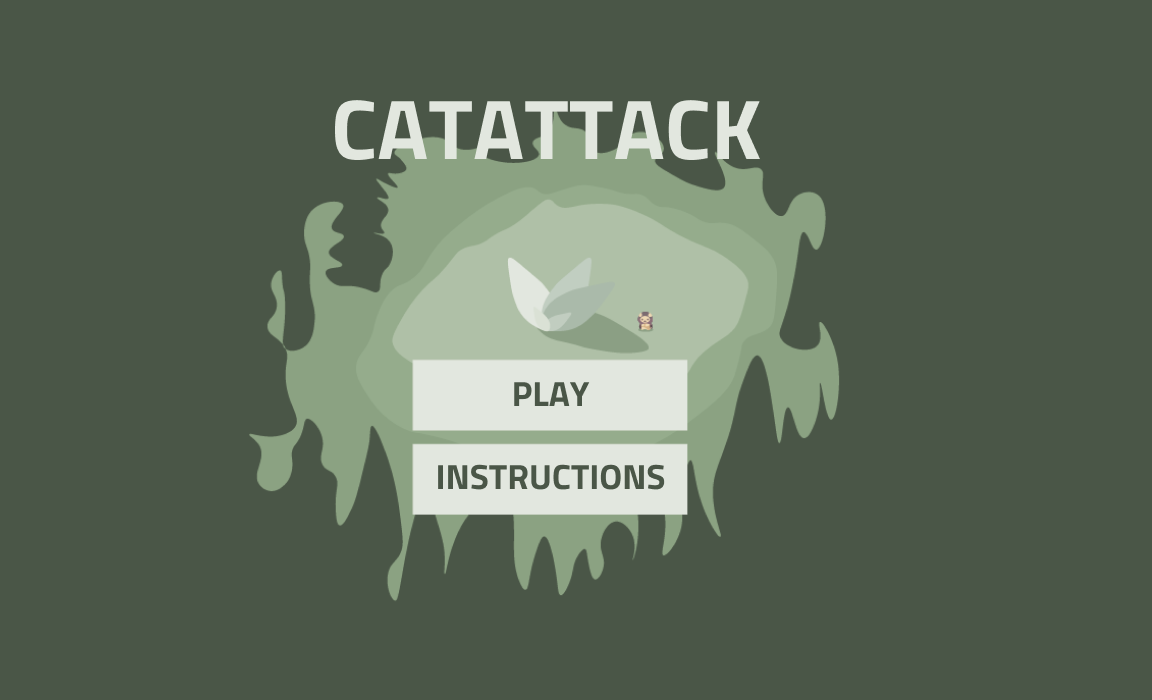
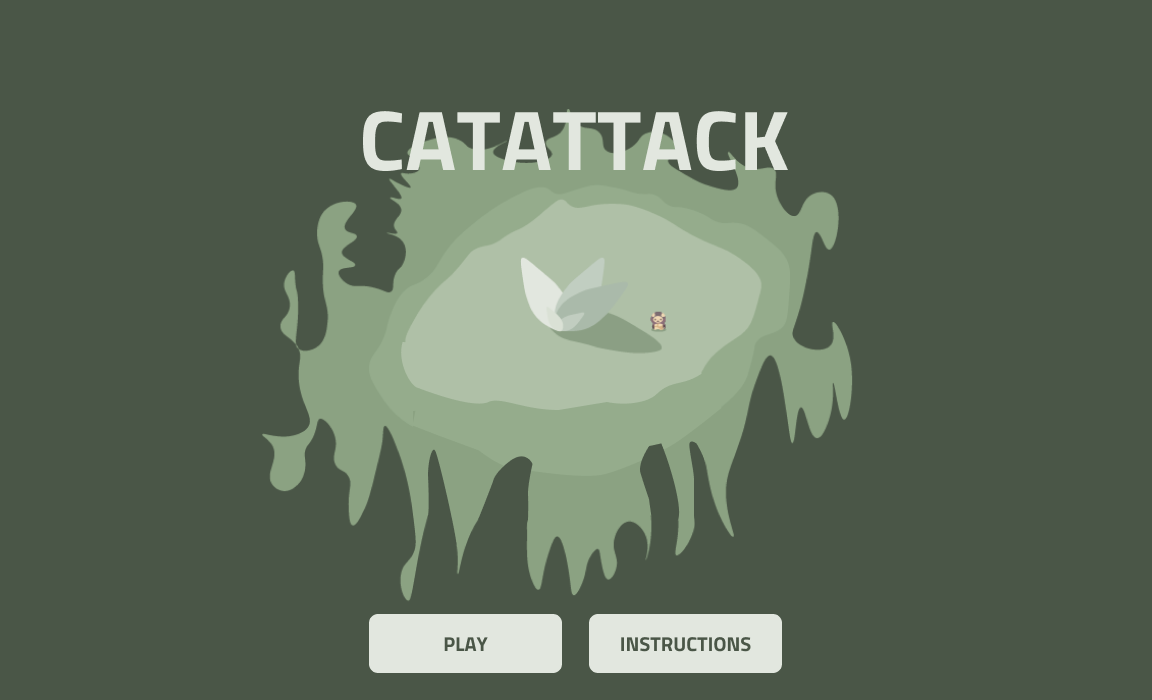
tuve que cambiar la imagenes, porque me arrepenti de las que tenia antes y  se cambio la posicion de los botones

diff --git a/src/Principal.java b/src/Principal.java
@@ -72,46 +72,46 @@ public class Principal extends PApplet {
 
 		// VARIABLES----------------------------------------------
 
-		estado = 1;
+		estado = 3;
 
 		// MENU
 		// button play
-		x1 = 412;
-		y1 = 360;
-		x2 = 687;
-		y2 = 430;
+		x1 = 369;
+		y1 = 614;
+		x2 = 562;
+		y2 = 673;
 
 		// button instructions
-		x3 = 412;
-		y3 = 448;
-		x4 = 687;
-		y4 = 510;
+		x3 = 589;
+		y3 = 614;
+		x4 = 782;
+		y4 = 673;
 
 		// INSTRUCTIONS
 		// button return
-		x5 = 21;
-		y5 = 594;
-		x6 = 296;
-		y6 = 677;
+		x5 = 922;
+		y5 = 611;
+		x6 = 1115;
+		y6 = 671;
 
 		// button play
-		x7 = 857;
-		y7 = 594;
-		x8 = 1130;
-		y8 = 677;
+		x7 = 479;
+		y7 = 611;
+		x8 = 672;
+		y8 = 670;
 
 		// RESUME
 		// button menu
-		x9 = 842;
-		y9 = 570;
-		x10 = 1116;
-		y10 = 653;
+		x9 = 481;
+		y9 = 620;
+		x10 = 1111;
+		y10 = 679;
 
 		// button return
-		x9 = 452;
-		y9 = 570;
-		x10 = 726;
-		y10 = 653;
+		x9 = 481;
+		y9 = 620;
+		x10 = 674;
+		y10 = 679;
 
 		// ------------------------------------------------
 		
@@ -155,7 +155,7 @@ public class Principal extends PApplet {
 			
 			if(s<=59) {
 				s= s+1;
-				text(h+" : " +m,750,40);
+				text(h+" : " +m,935,40);
 			} else {
 				m=m+1;
 				s=0;				
